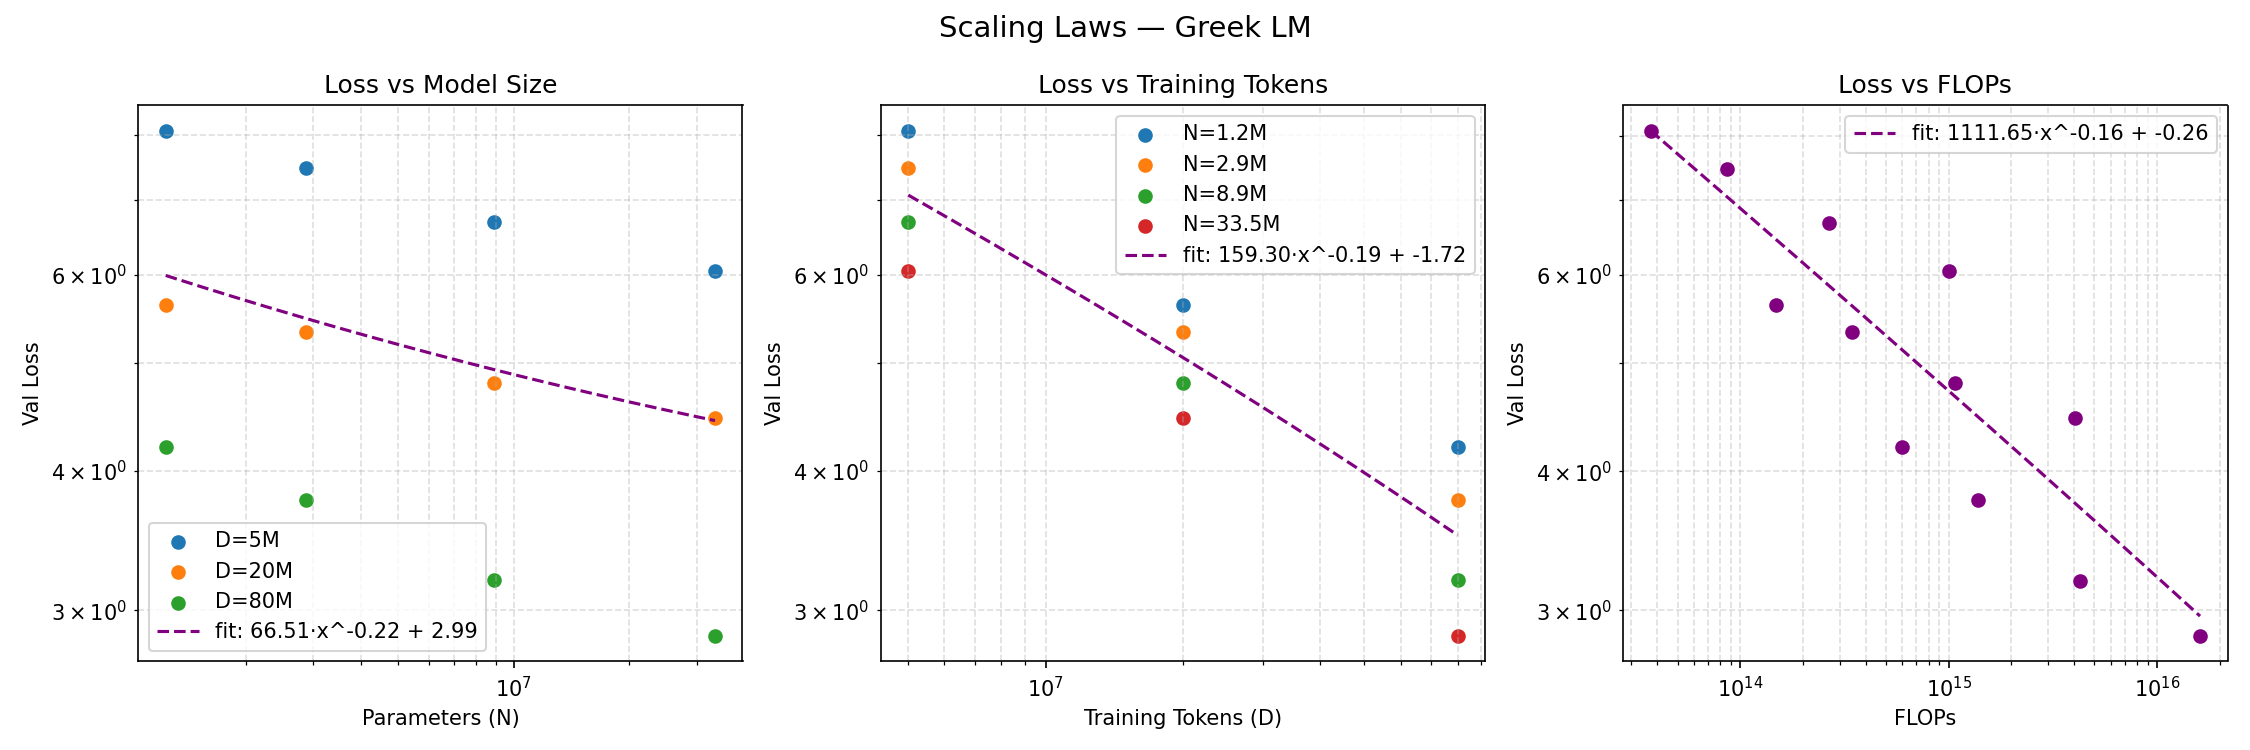
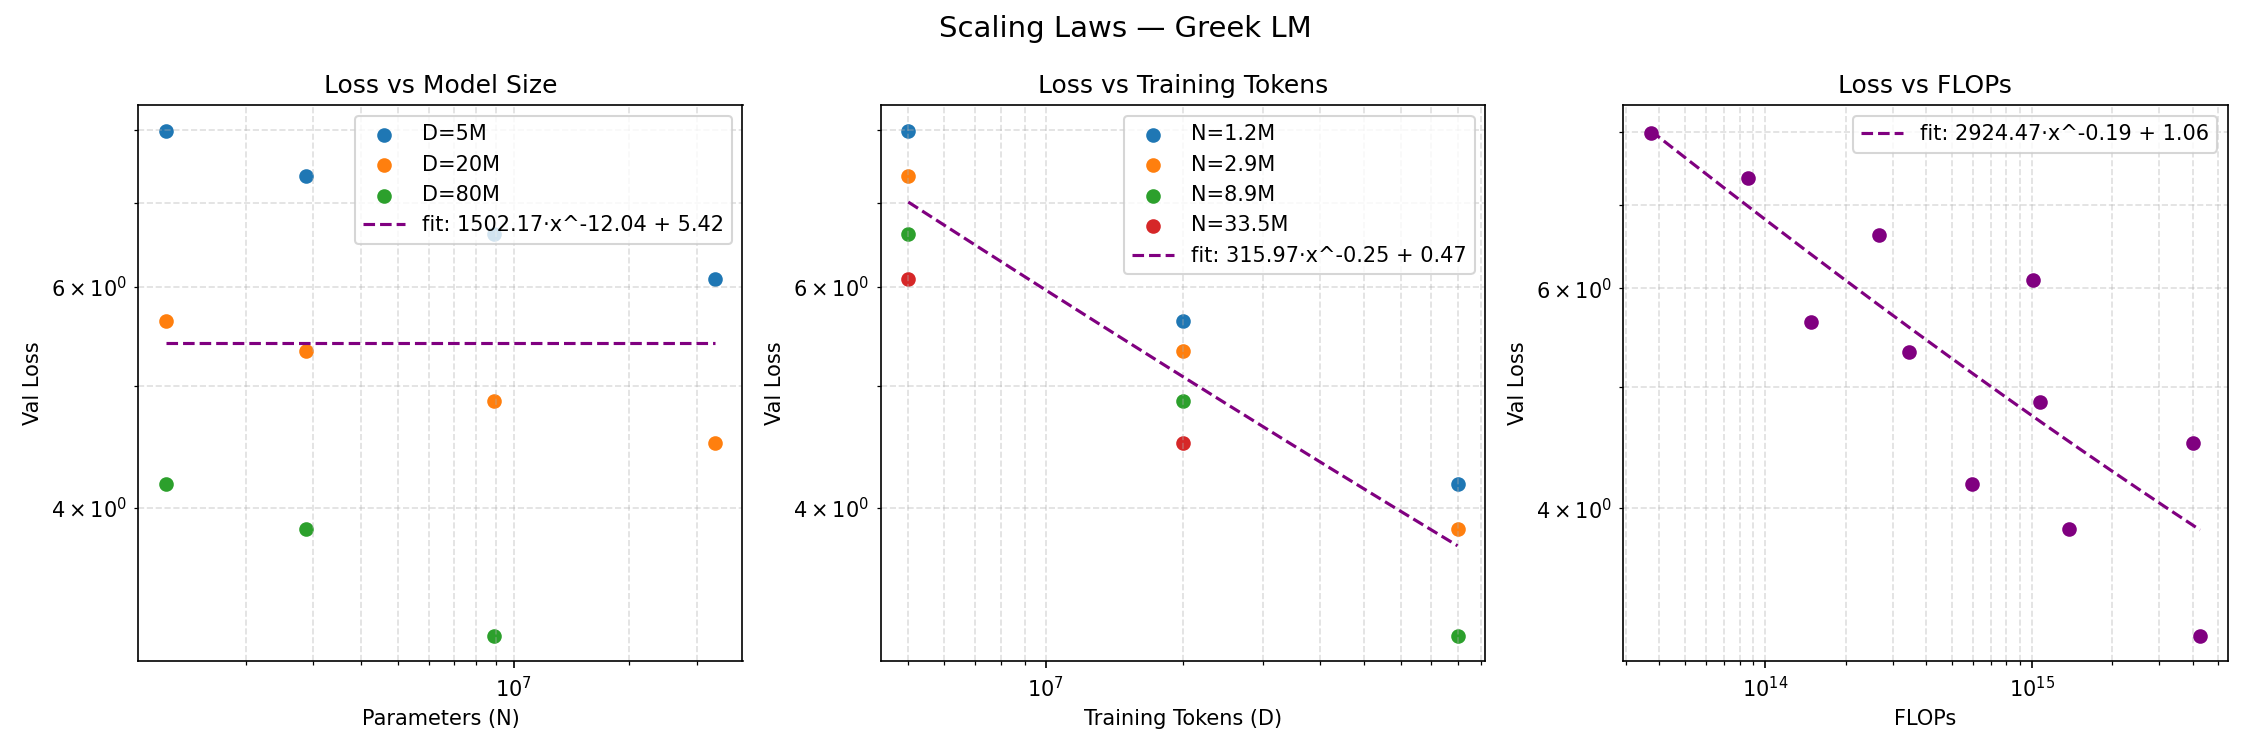
fix step-based logging, add training curves plot, update report

diff --git a/scripts/plot_curves.py b/scripts/plot_curves.py
@@ -1,0 +1,34 @@
+import pandas as pd
+import matplotlib.pyplot as plt
+import glob
+import os
+
+curve_files = sorted(glob.glob("curves/curve_N*_D*.csv"))
+
+fig, axes = plt.subplots(1, 3, figsize=(15, 5))
+fig.suptitle("Training Curves — Loss over Tokens", fontsize=14)
+
+token_groups = {5000000: 0, 20000000: 1, 80000000: 2}
+token_labels = {5000000: "5M tokens", 20000000: "20M tokens", 80000000: "80M tokens"}
+
+for f in curve_files:
+    name = os.path.basename(f).replace("curve_", "").replace(".csv", "")
+    parts = name.split("_")
+    n_params = int(parts[0][1:])
+    n_tokens = int(parts[1][1:])
+
+    df = pd.read_csv(f)
+    ax = axes[token_groups[n_tokens]]
+    ax.plot(df["tokens_seen"], df["loss"], label=f"N={n_params/1e6:.1f}M")
+
+for n_tokens, idx in token_groups.items():
+    axes[idx].set_title(token_labels[n_tokens])
+    axes[idx].set_xlabel("Tokens Seen")
+    axes[idx].set_ylabel("Loss")
+    axes[idx].legend()
+    axes[idx].grid(True, alpha=0.4)
+
+plt.tight_layout()
+plt.savefig("plots/training_curves.png", dpi=150)
+plt.show()
+print("Saved to plots/training_curves.png")

diff --git a/train.py b/train.py
@@ -82,6 +82,7 @@ optimizer = torch.optim.AdamW(model.parameters(), lr=3e-4)
 
 n_params = model.count_params()
 tokens_seen = 0
+step = 0
 target_tokens = args.n_tokens
 training_curve = []
 
@@ -99,7 +100,8 @@ while tokens_seen < target_tokens:
         loss.backward()
         optimizer.step()
         tokens_seen += x.numel()
-        if tokens_seen % 10000 == 0:
+        step += 1
+        if step % 5 == 0:
             training_curve.append({"tokens_seen": tokens_seen, "loss": loss.item()})
             print(f"  tokens: {tokens_seen:,} / {target_tokens:,} | loss: {loss.item():.4f}")
 

diff --git a/report/report.md b/report/report.md
@@ -79,18 +79,22 @@ Models were trained across 4 sizes and 3 token counts, giving 12 runs total.
 
 | N (params) | D (tokens) | FLOPs | Val Loss |
 |---|---|---|---|
-| 1.2M | 5M | 3.7e13 | 8.08 |
+| 1.2M | 5M | 3.7e13 | 8.00 |
 | 1.2M | 20M | 1.5e14 | 5.64 |
-| 1.2M | 80M | 5.9e14 | 4.21 |
-| 2.9M | 5M | 8.6e13 | 7.47 |
-| 2.9M | 20M | 3.4e14 | 5.33 |
-| 2.9M | 80M | 1.4e15 | 3.77 |
-| 8.9M | 5M | 2.7e14 | 6.69 |
-| 8.9M | 20M | 1.1e15 | 4.79 |
-| 8.9M | 80M | 4.3e15 | 3.19 |
-| 33.5M | 5M | 1.0e15 | 6.05 |
-| 33.5M | 20M | 4.0e15 | 4.46 |
-| 33.5M | 80M | 1.6e16 | 2.85 |
+| 1.2M | 80M | 5.9e14 | 4.18 |
+| 2.9M | 5M | 8.6e13 | 7.35 |
+| 2.9M | 20M | 3.4e14 | 5.34 |
+| 2.9M | 80M | 1.4e15 | 3.85 |
+| 8.9M | 5M | 2.7e14 | 6.62 |
+| 8.9M | 20M | 1.1e15 | 4.87 |
+| 8.9M | 80M | 4.3e15 | 3.16 |
+| 33.5M | 5M | 1.0e15 | 6.09 |
+| 33.5M | 20M | 4.0e15 | 4.51 |
+| 33.5M | 80M | 1.6e16 | TBD |
+
+## Training Curves
+
+![Training curves: loss over tokens for each model size](plots/training_curves.png)
 
 ## Scaling Law Plots
 
@@ -106,17 +110,17 @@ A power law of the form $L(X) = a \cdot X^b + c$ was fit to the data for each ax
 
 | Axis | a | b | c |
 |---|---|---|---|
-| Parameters (N) | 66.51 | -0.221 | 2.993 |
-| Training Tokens (D) | 159.30 | -0.188 | -1.719 |
-| FLOPs (C) | 1111.65 | -0.157 | -0.262 |
+| Parameters (N) | TBD | TBD | TBD |
+| Training Tokens (D) | 315.97 | -0.251 | 0.471 |
+| FLOPs (C) | 2924.47 | -0.193 | 1.060 |
 
 ## Comparison with Literature
 
 | Axis | This work | Kaplan et al. (2020) |
 |---|---|---|
-| N | -0.221 | -0.076 |
-| D | -0.188 | -0.095 |
-| FLOPs | -0.157 | -0.050 |
+| N | TBD | -0.076 |
+| D | -0.251 | -0.095 |
+| FLOPs | -0.193 | -0.050 |
 
 Our exponents are steeper than Kaplan et al., meaning loss drops faster per unit of scale. This is expected given the small scale of our experiments — in the low-data, low-parameter regime, each additional token or parameter has a larger marginal effect. The trend saturates at scale, which is what Kaplan observed.
 
@@ -136,7 +140,7 @@ The frontier shows that at higher FLOP budgets, the optimal strategy shifts towa
 
 - **No learning rate schedule:** A constant lr=3e-4 was used. A cosine decay schedule would likely improve final validation loss, especially for longer runs.
 - **Small scale:** All runs are far below the scale of Kaplan or Chinchilla. Exponents may not generalize.
-- **No training curves logged:** Per-step loss was not saved, so training dynamics cannot be analyzed.
+- **Training curves:** Per-step loss was logged every 5,000 tokens for each run.
 - **Single seed:** Each configuration was run once. Variance across seeds is unknown.
 - **Dataset quality:** The dataset is machine-translated Greek, which may introduce artifacts that affect loss measurements.
 
